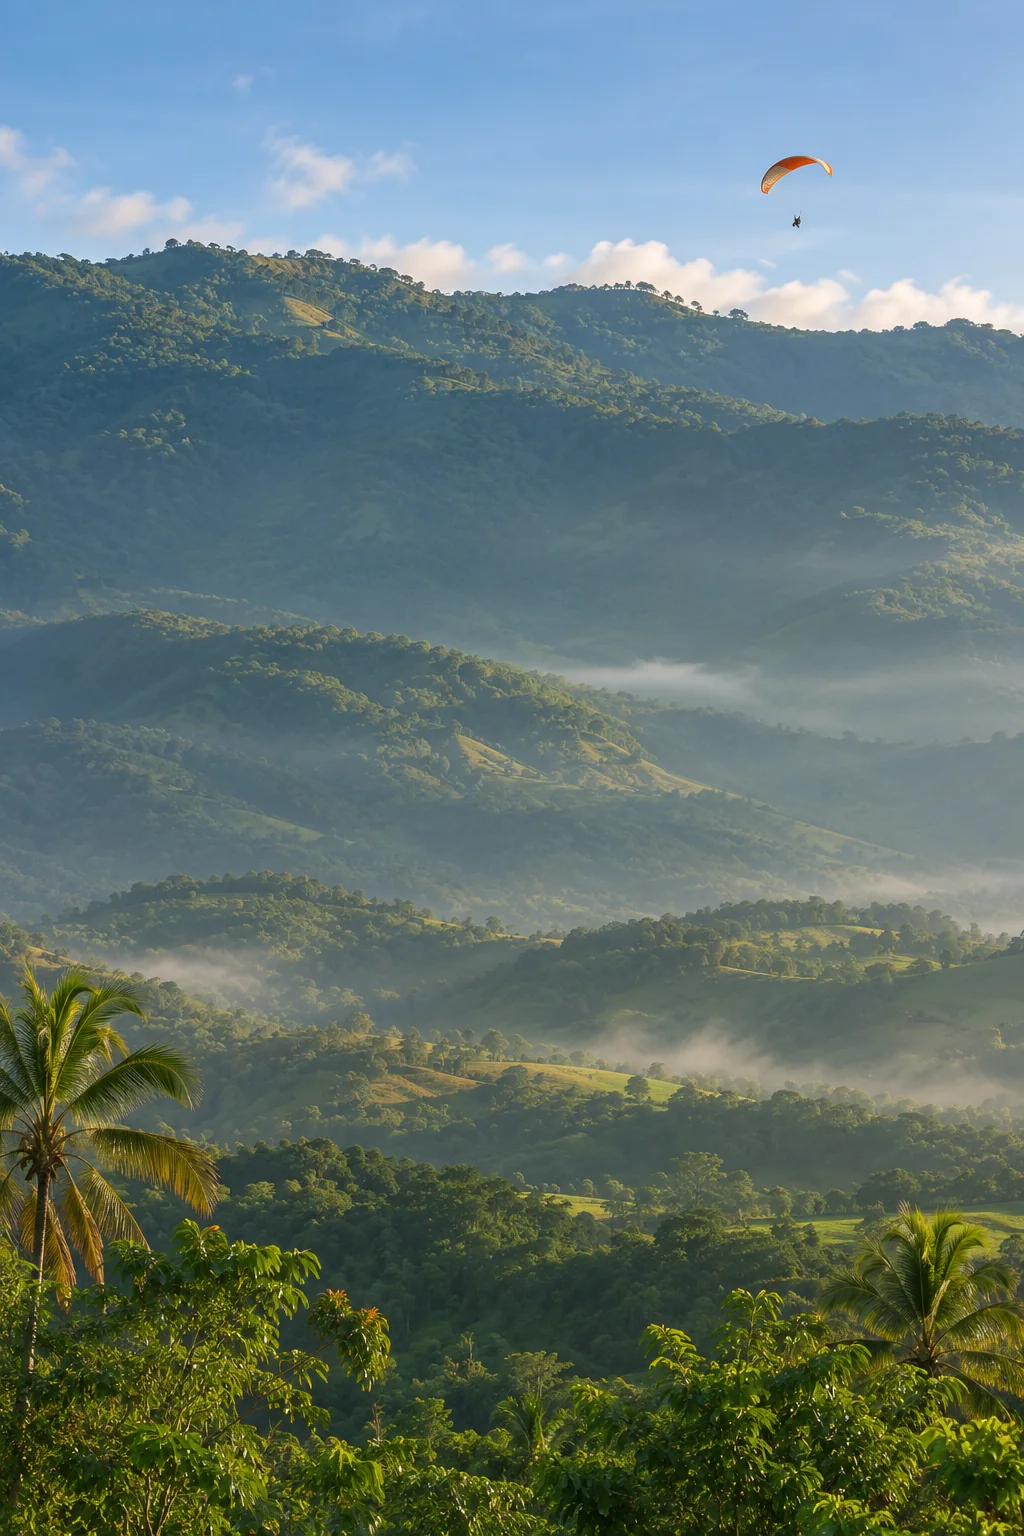
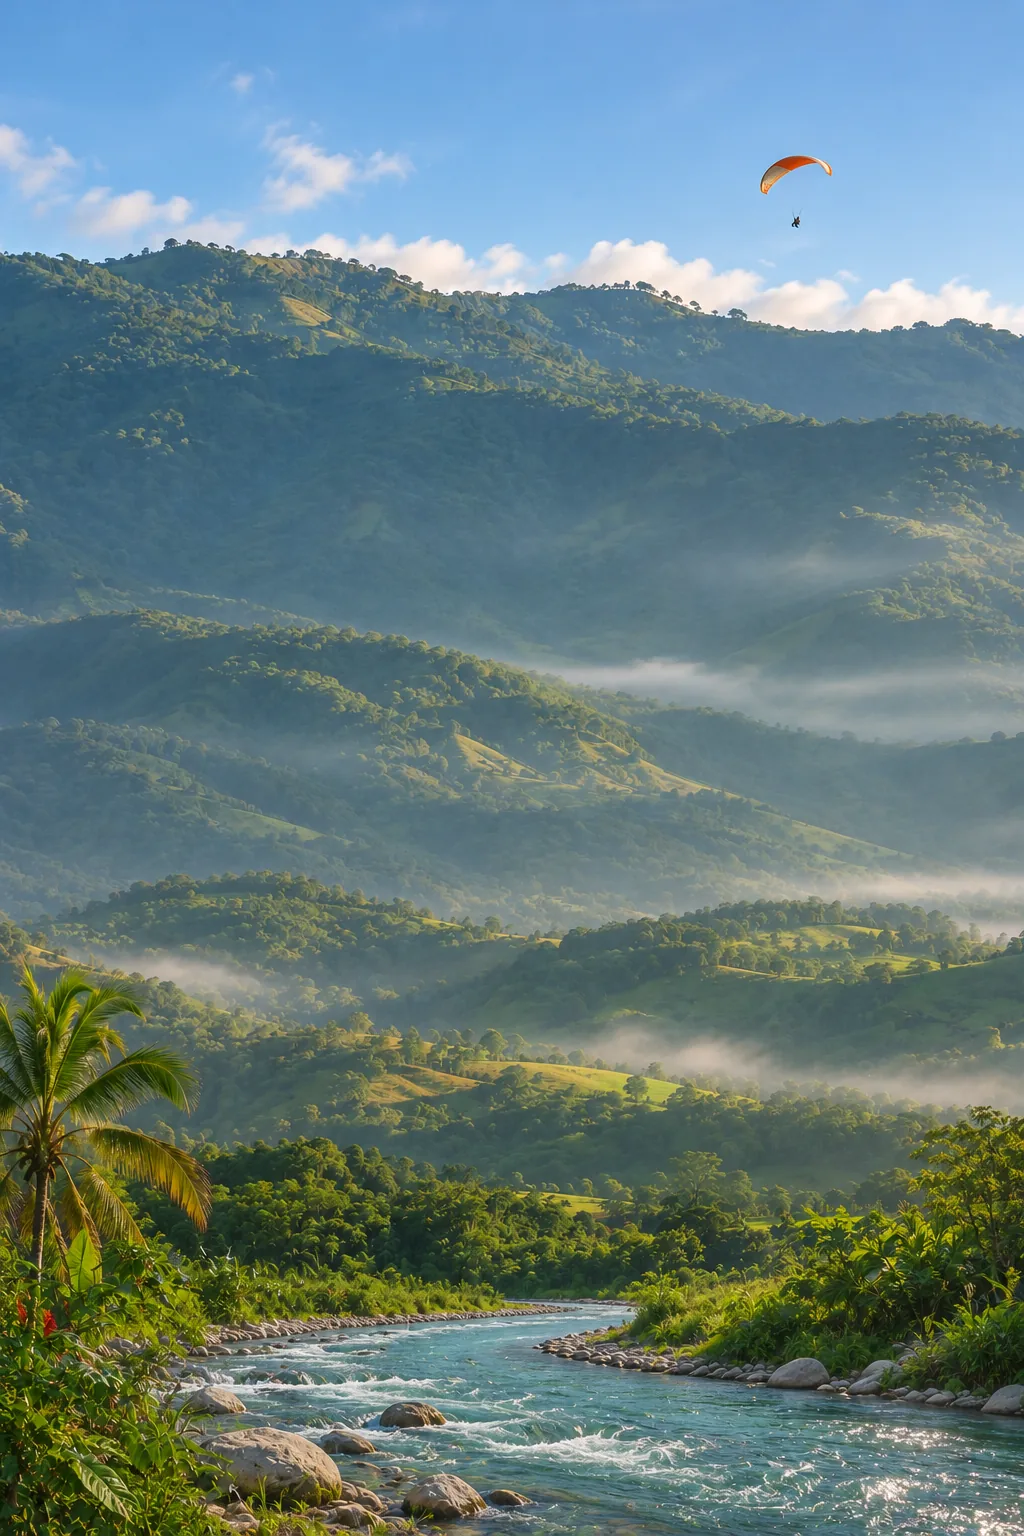
Frame a river and mountains on mobile and desktop guide covers

diff --git a/guide/style.css b/guide/style.css
@@ -12,8 +12,8 @@ h2{font-size:clamp(1.7rem,4vw,2.6rem)}
 h3{font-size:1.18rem}
 .frame{width:min(100% - 2rem,1060px);margin-inline:auto}
 .entry{position:relative;isolation:isolate;overflow:hidden;min-height:100svh;display:grid;place-items:center;padding:1rem;background:#18382c}
-.entry::before{content:'';position:absolute;inset:0;z-index:-1;background:linear-gradient(180deg,#102e2412,#102e2440),url('./jarabacoa-welcome.webp') center 8%/cover}
-@media(orientation:portrait){.entry::before{background-position:center top}}
+.entry::before{content:'';position:absolute;inset:0;z-index:-1;background:linear-gradient(180deg,#102e2412,#102e2440),url('./jarabacoa-river-wide.webp') center/cover}
+@media(orientation:portrait){.entry::before{background-image:linear-gradient(180deg,#102e2412,#102e2440),url('./jarabacoa-welcome.webp?v=rio');background-position:center bottom}}
 .entry-panel{width:min(100%,28rem);border-radius:24px;background:#faf8f0;text-align:center;padding:clamp(1.3rem,6vw,2.7rem);box-shadow:0 18px 60px #0e261ad0}
 .entry-logo{width:clamp(136px,37vw,184px);height:auto;border-radius:50%;object-fit:cover;margin-bottom:.5rem}
 .entry-panel .entry-name{font-weight:650;margin:0 0 .6rem;color:#284d3a}

diff --git a/guia.html b/guia.html
@@ -6,7 +6,7 @@
   <meta name="theme-color" content="#18382c">
   <title>Guía Nature Paradise | Jarabacoa</title>
   <link rel="icon" href="./nature-paradise-logo.webp" type="image/webp">
-  <link rel="stylesheet" href="./guide/style.css?v=jarabacoa">
+  <link rel="stylesheet" href="./guide/style.css?v=rio">
 </head>
 <body>
   <main id="entry" class="entry">
